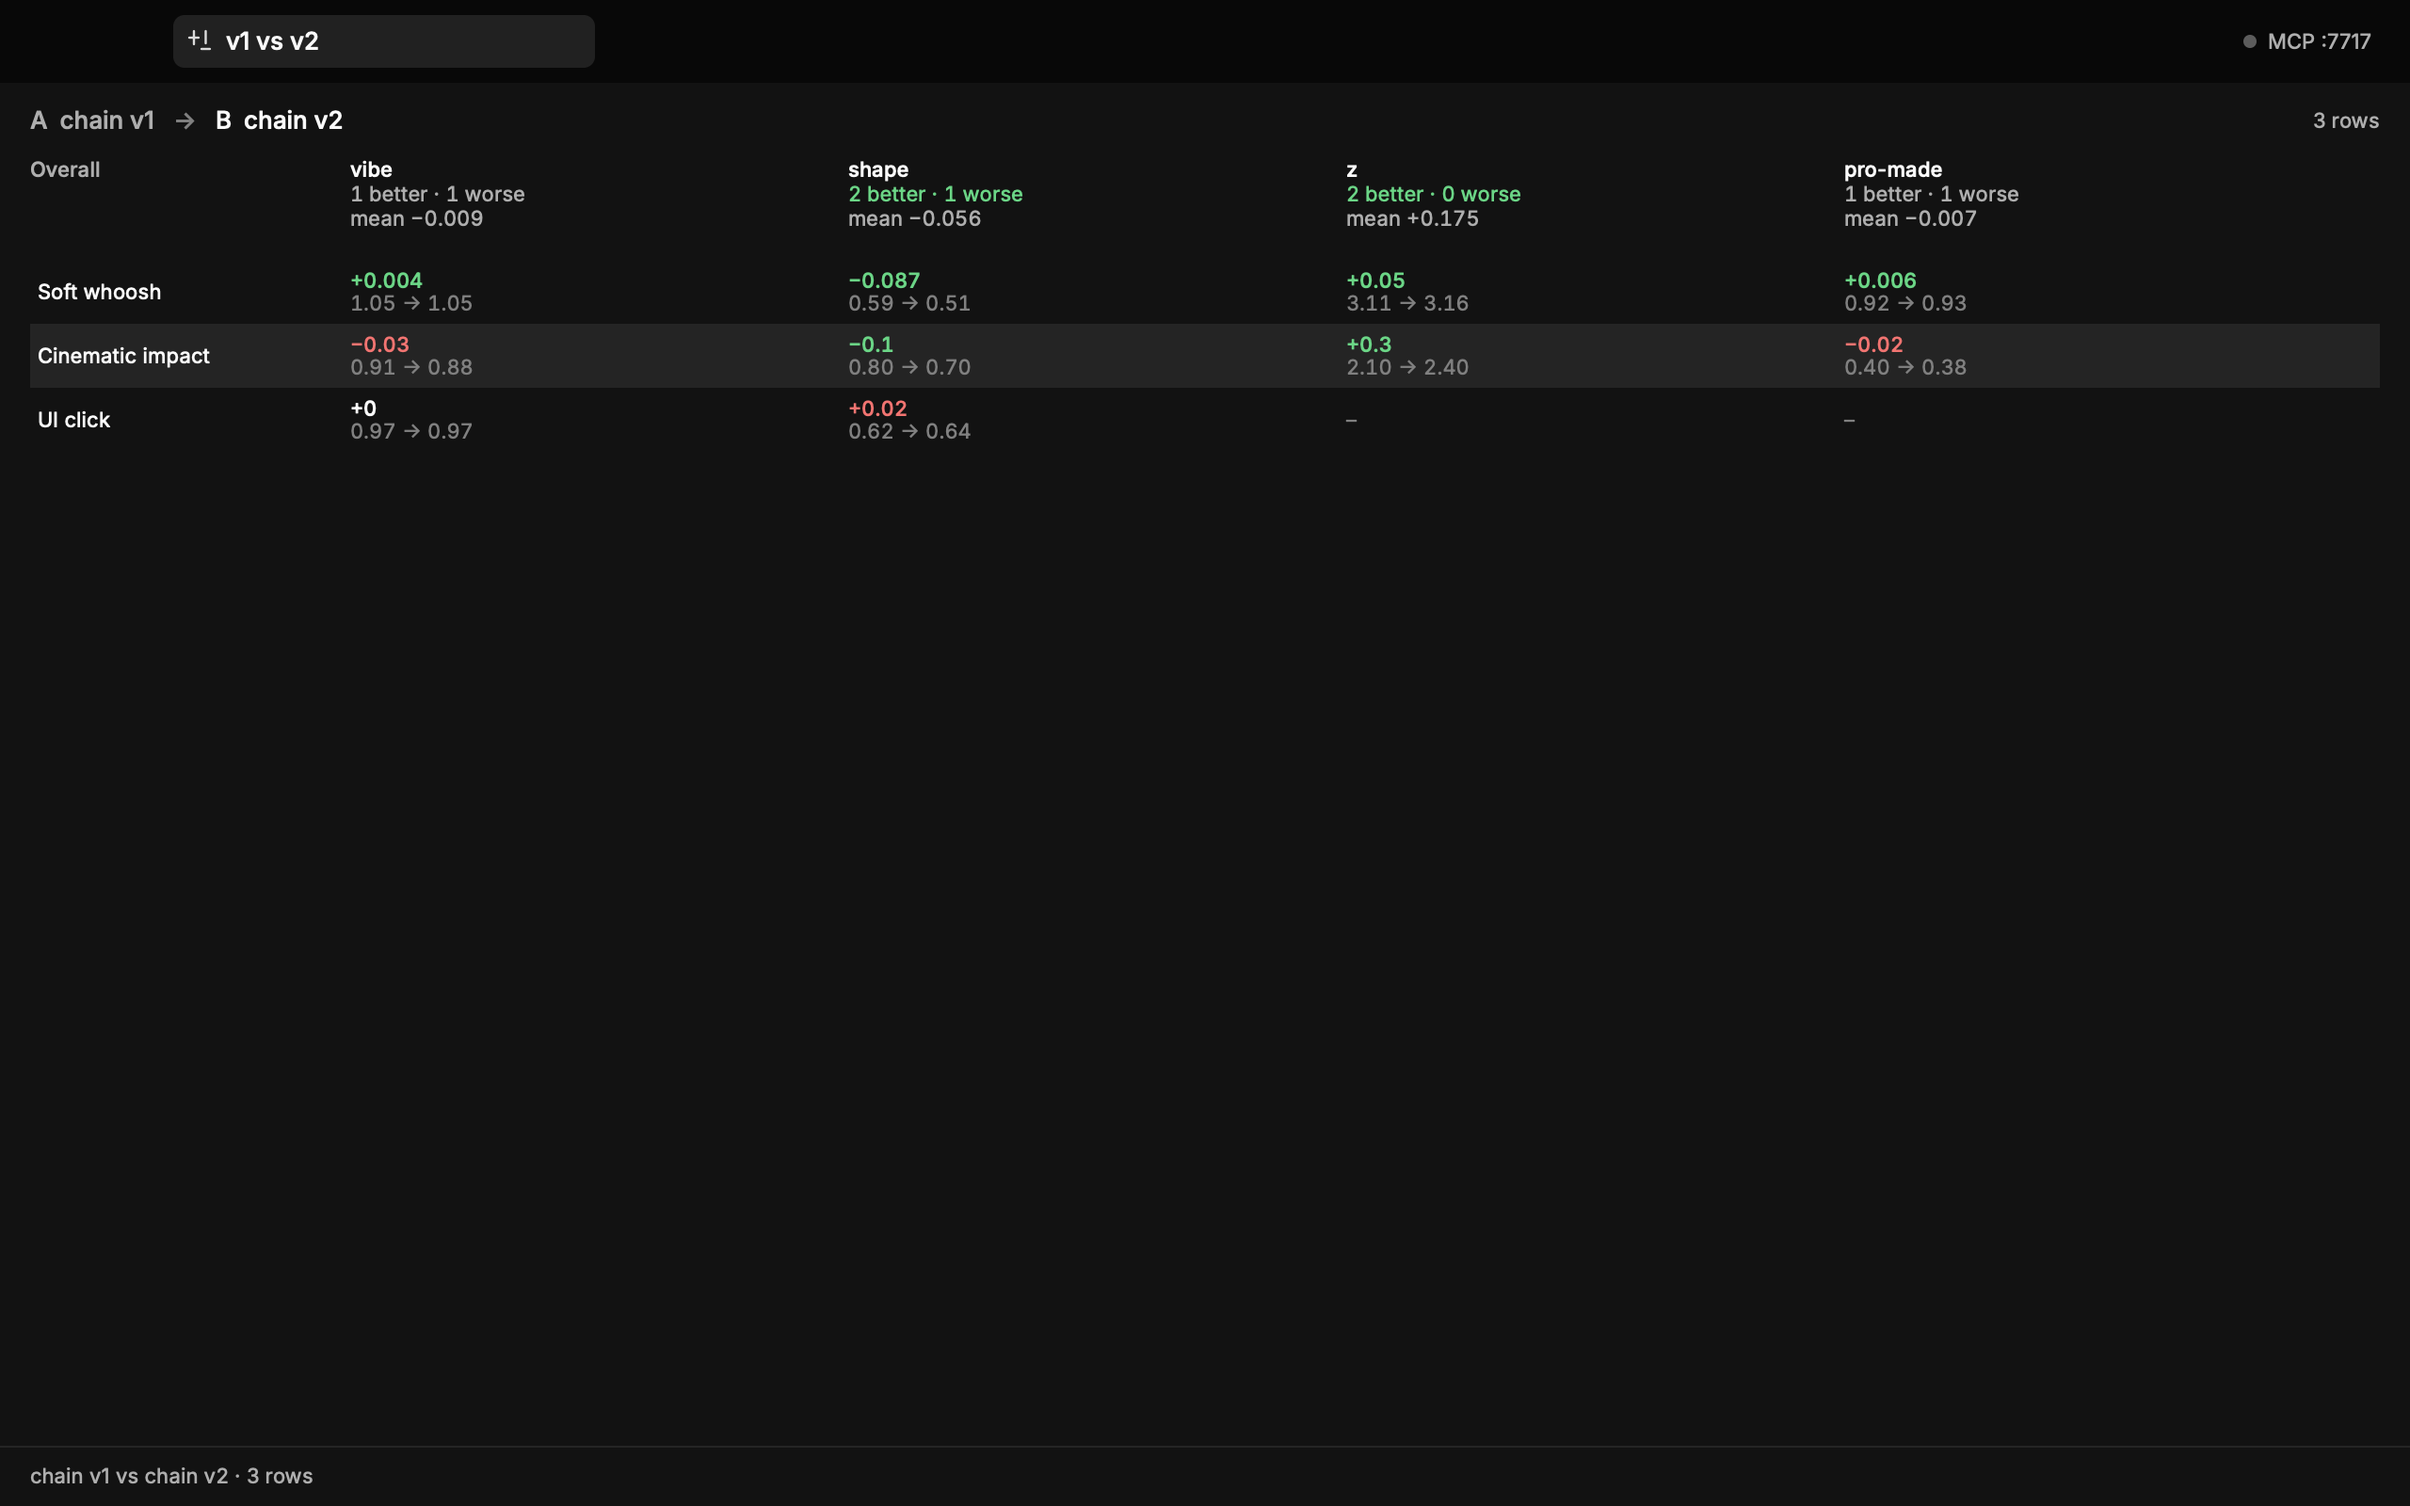
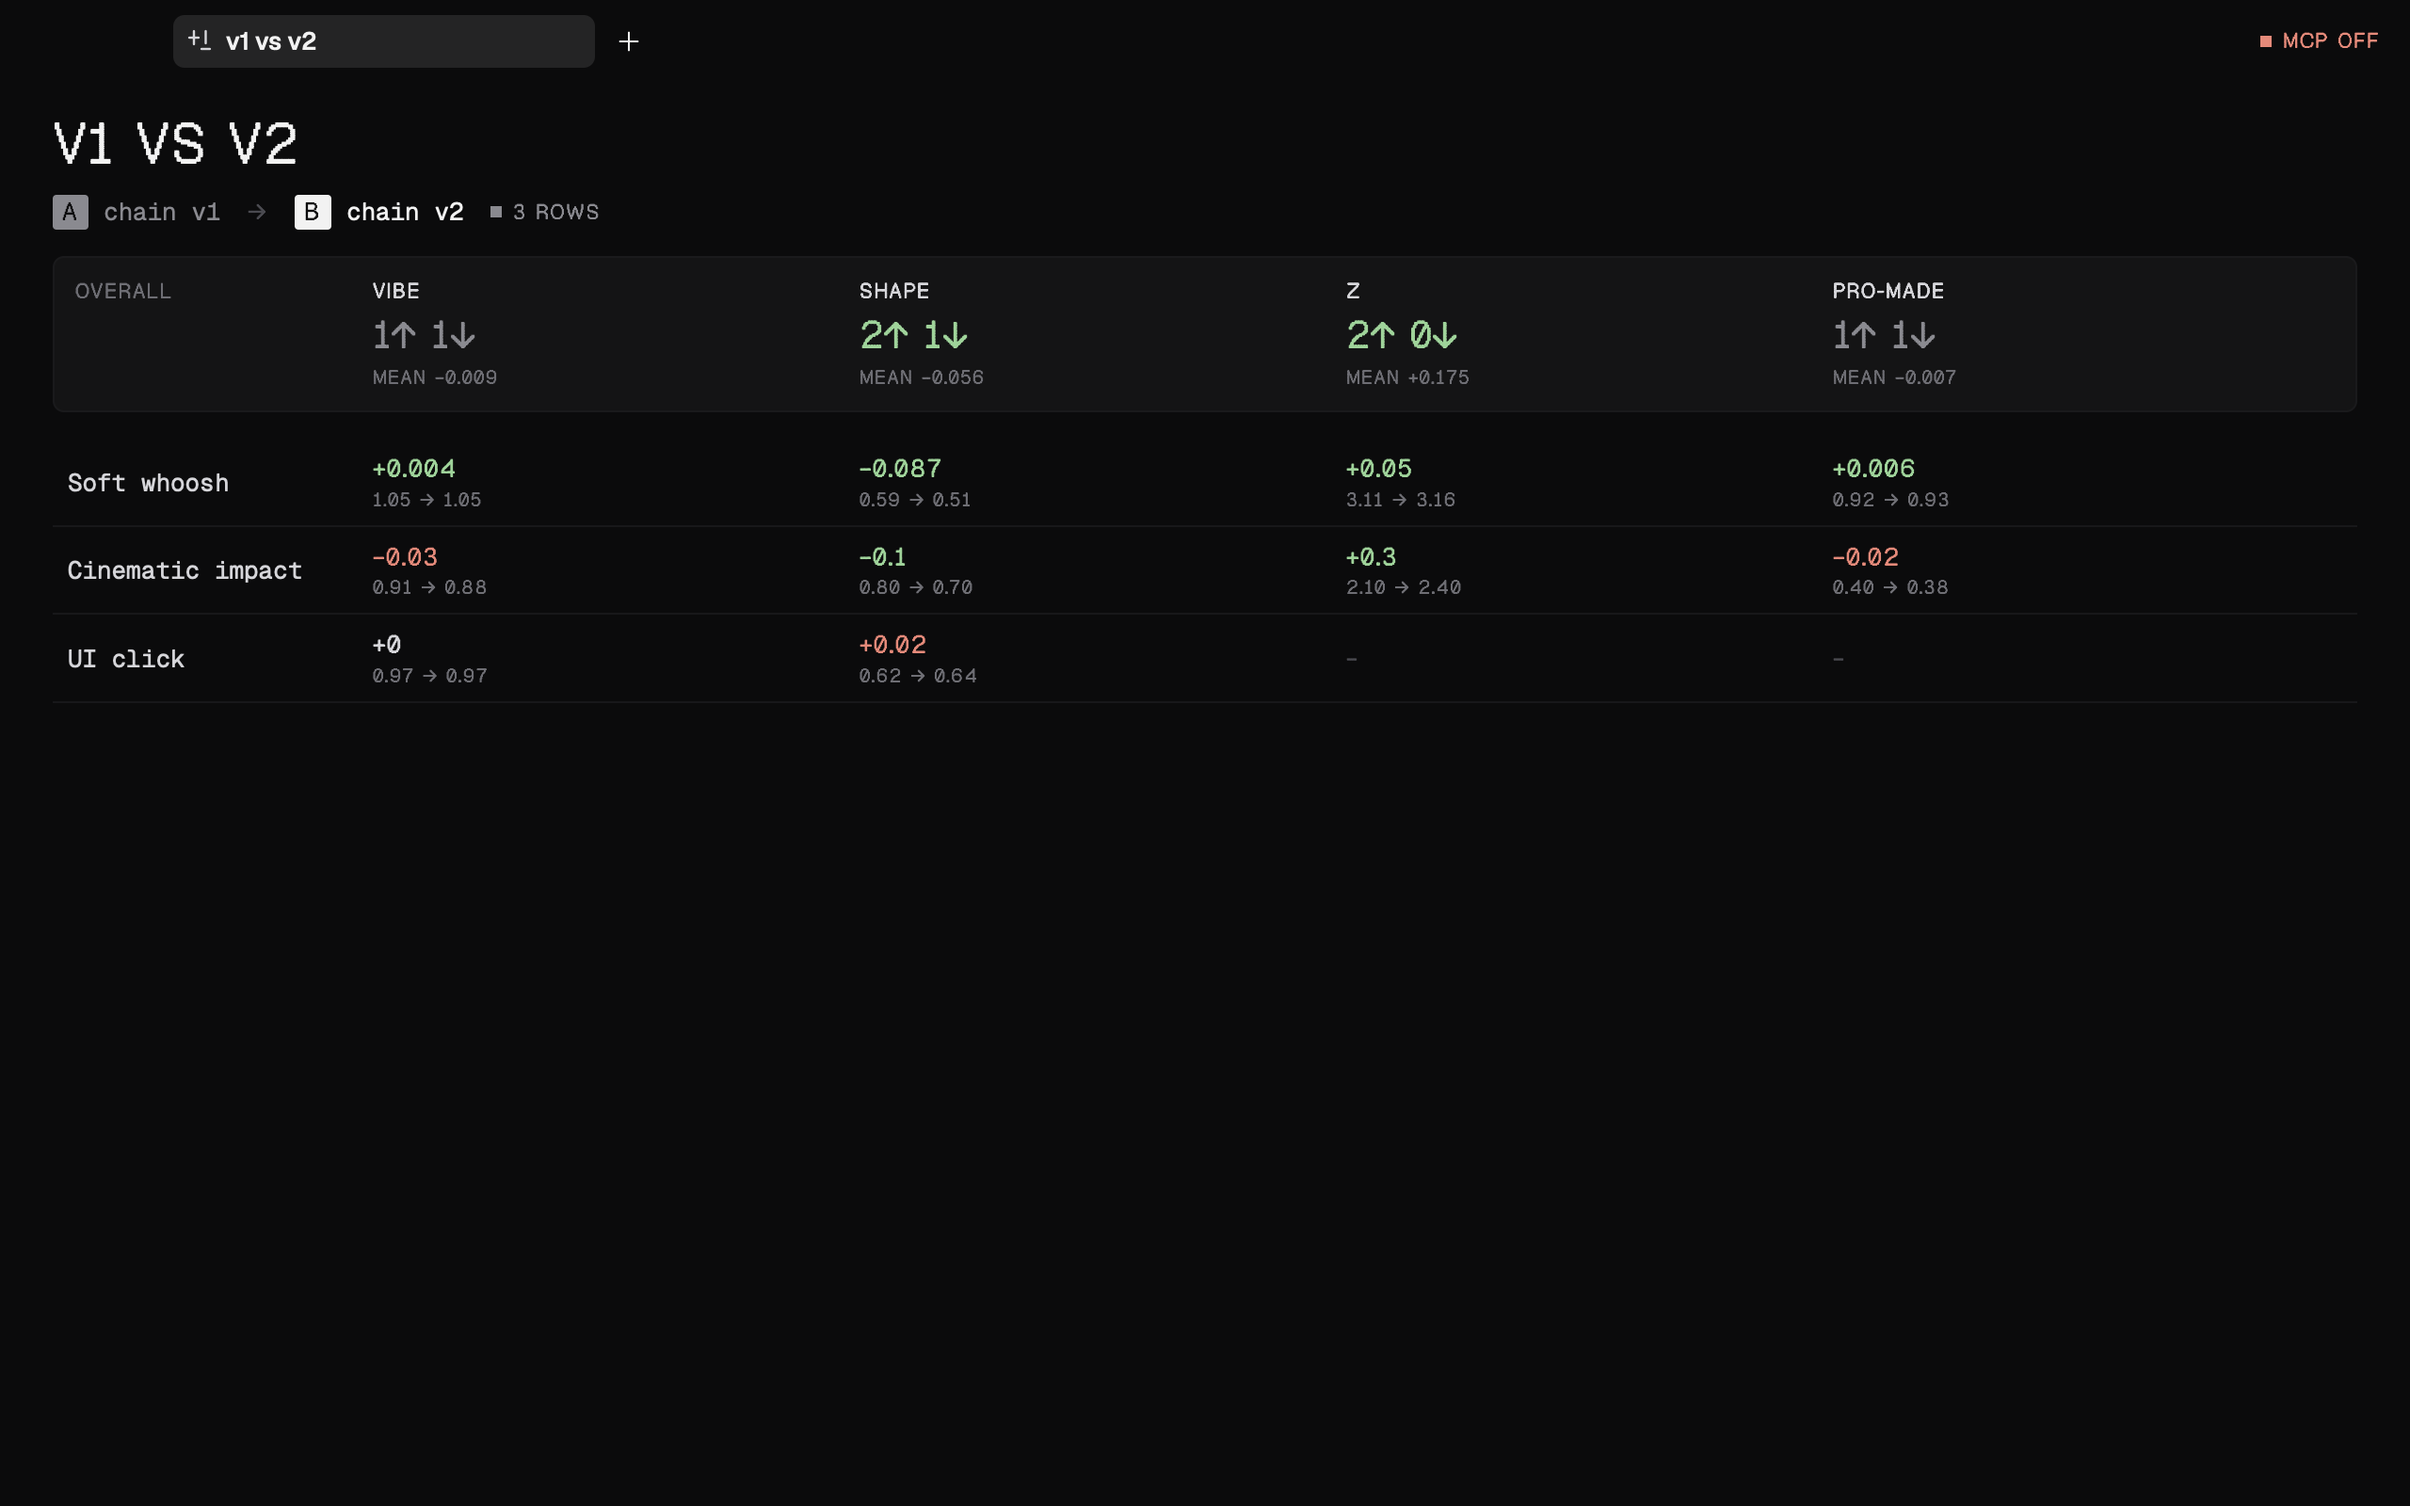
DOC: fresh README screenshots, and the board, pads, single and diff views shown
Re-rendered docs/*.png from the fixture scenes after the audit (key-cap lanes, the new
player, compact pane head, no target meters).

diff --git a/README.md b/README.md
@@ -4,6 +4,12 @@ A listening bench for generated audio, driven by your coding agent. The agent op
 
 ![A compare tab](docs/compare.png)
 
+| Board | Pads |
+|---|---|
+| ![A board of groups](docs/board.png) | ![Sound pads](docs/pads.png) |
+| **One file** | **Run vs run** |
+| ![A single-file tab](docs/single.png) | ![A diff of two runs](docs/diff.png) |
+
 Forked from [Sleeve](https://github.com/alii/sleeve), a rekordbox app by Alistair Smith. The rekordbox and USB parts are gone. Sleeve's look, its job system and its Rune UI stay.
 
 ## What a tab shows
@@ -135,7 +141,7 @@ just snap compare
 
 `just hot` uses Rune's own live editing (Dioxus's subsecond hot patching). It needs Dioxus CLI 0.7.10 (`cargo install dioxus-cli@0.7.10 --locked`; Homebrew's `dx` is a different program). A changed function body in `src/ui/` or `src/app.rs` patches into the open window in about a second and keeps the open tabs. Any other change rebuilds and relaunches, and the tabs come back. `just hot --snap-on-patch target/hot.png` renders headless and writes a PNG after every patch, for an agent checking its own UI edits.
 
-Every headless scene renders from fixture audio adeck writes itself: `adeck --snap out.png --scene single|compare|blind|run|board|pads|diff|shared|activity|palette|keys|empty`.
+Every headless scene renders from fixture audio adeck writes itself: `adeck --snap out.png --scene single|compare|blind|run|board|pads|diff|shared|activity|palette|keys|empty`. The screenshots in `docs/` are these scenes at 1280×800, scale 2.
 
 Rune is pinned to one commit in `Cargo.toml` (`rune`, `rune-kit` and `rune-theme-opencode` share it), so its changes reach adeck only when you move the pin. `just bump-rune` moves all three to the tip of Rune's default branch (or `just bump-rune <sha>`), updates the lockfile, then runs clippy, the tests and every scene; look over `target/snaps/` and commit `Cargo.toml` and `Cargo.lock`.
 
